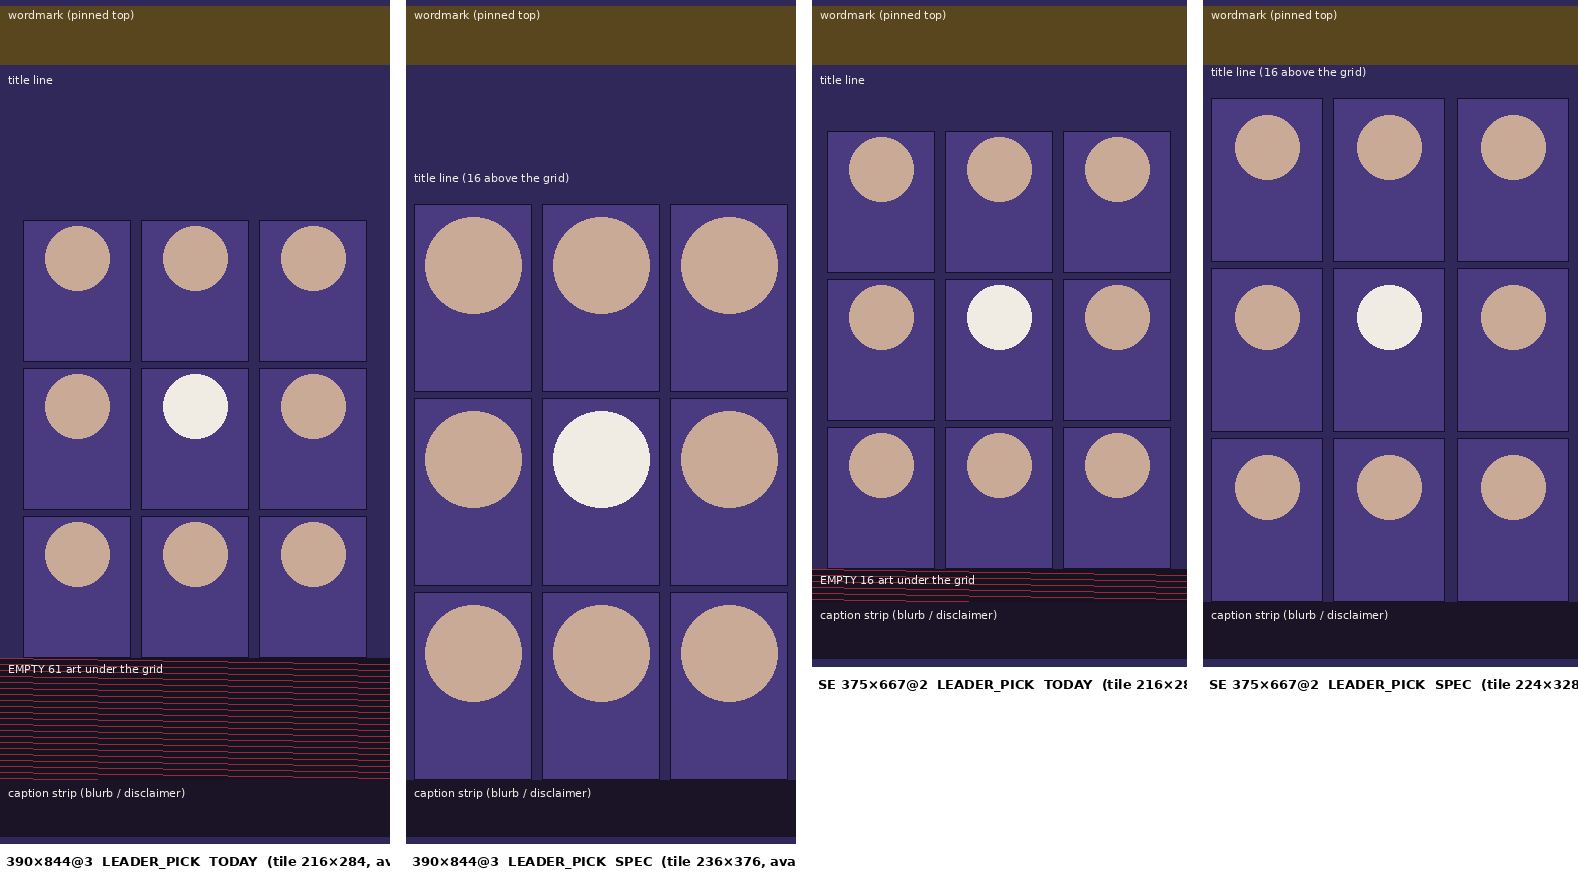
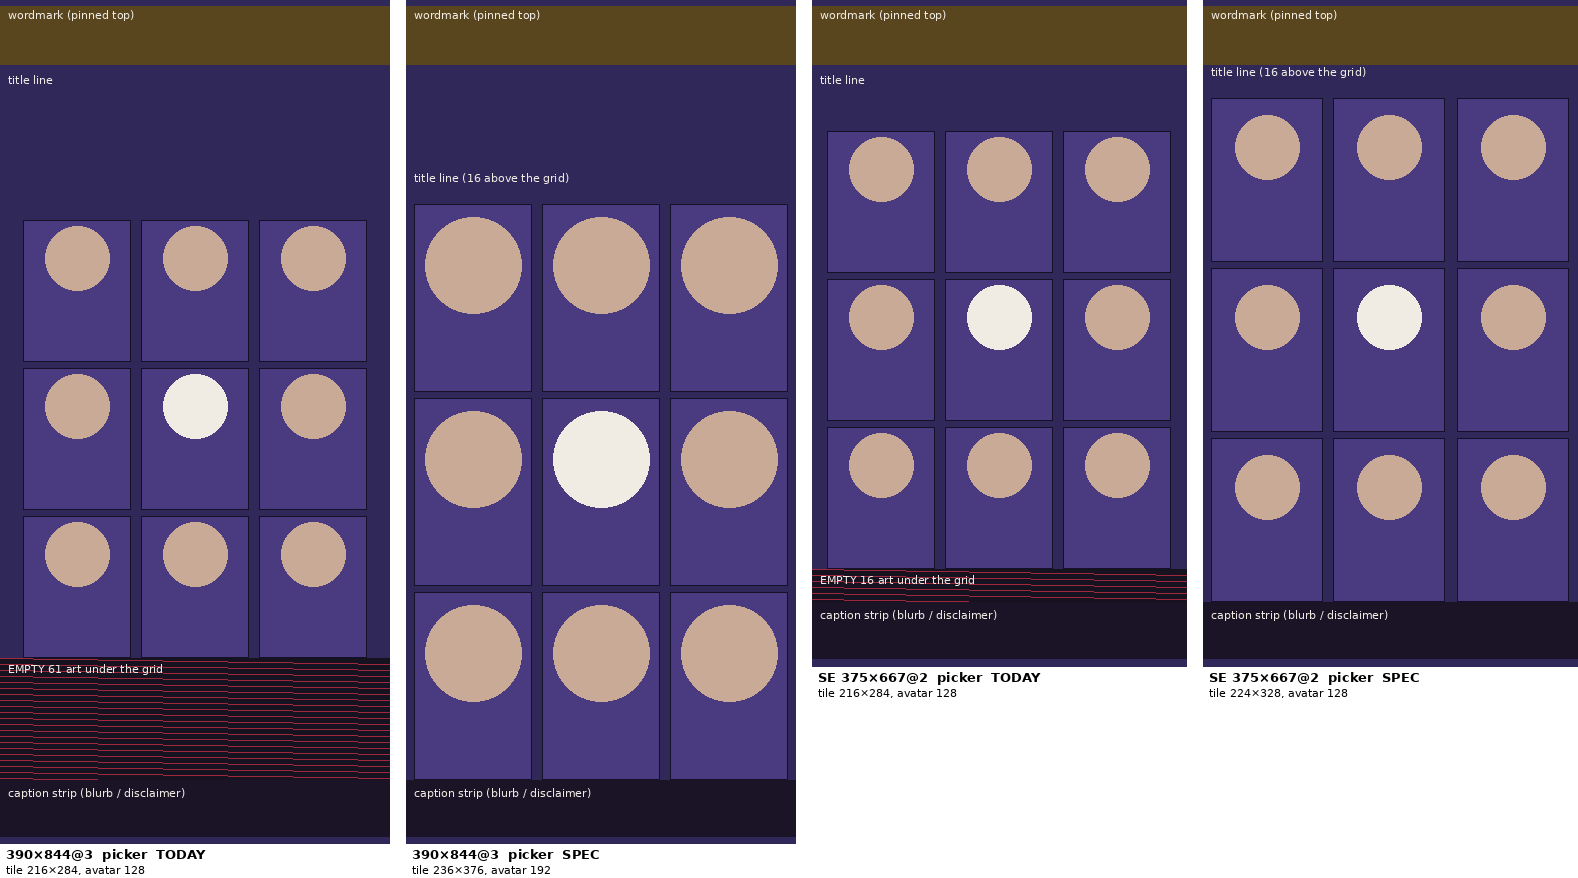
docs(od-sevev): set the art grid before the unchanged-scale return
Two phones with the same k differ only in columns and rows, so the
display update must record them before it returns early.

Claude-Session: https://claude.ai/code/session_01JZ6f2h5tcXVKGAwuAga5z8

Changed region(s): [[0.0, 0.9533, 0.4968, 1.0], [0.4968, 0.7688, 1.0, 0.7995]]

diff --git a/ux/tools/mobile_mockup.py b/ux/tools/mobile_mockup.py
@@ -155,9 +155,10 @@ def picker_panel(dev, mode):
         d.text((8, gb * sc + 4), "EMPTY %d art under the grid" % ((strip_y - gb) // 4), fill=C["text"], font=FONT)
     d.rectangle([0, strip_y * sc, wcss, (vh - 16) * sc], fill=C["ticker"])
     d.text((8, strip_y * sc + 6), "caption strip (blurb / disclaimer)", fill=C["text"], font=FONT)
-    title = "%s  LEADER_PICK  %s  (tile %d×%d, avatar %d)" % (dev[0], "TODAY" if mode == "today" else "SPEC", tw, th, A)
+    title = "%s  picker  %s" % (dev[0], "TODAY" if mode == "today" else "SPEC")
     d.rectangle([0, hcss, wcss, hcss + 34], fill=(255, 255, 255))
-    d.text((6, hcss + 9), title, fill=(0, 0, 0), font=FONT_B)
+    d.text((6, hcss + 2), title, fill=(0, 0, 0), font=FONT_B)
+    d.text((6, hcss + 19), "tile %d×%d, avatar %d" % (tw, th, A), fill=(0, 0, 0), font=FONT)
     return img
 
 

diff --git a/ux/mobile-first-layout.md b/ux/mobile-first-layout.md
@@ -65,9 +65,11 @@ Shots: `scratchpad/shots/mobile-ux/` (`390x844@3-{pick,pretap,card1,bought,c1-ta
 static var cols := 180          # art columns: floor(W_dev / k)
 static var rows := 267          # art rows:    floor(H_dev / k)
 
-## in update(), after k is set (integer path only; the fallback keeps 180 × 320):
-cols = int(floorf(win.x / k)) if ni else ART_W
-rows = int(floorf(win.y / k)) if ni else 320
+## in update(), right after nk / ni are computed and BEFORE the "unchanged" early return: two
+## phones with the same k (390@3 and 430@3 are both k 6) differ only here. The fallback keeps
+## 180 × 320.
+cols = int(floorf(win.x / nk)) if ni else ART_W
+rows = int(floorf(win.y / nk)) if ni else 320
 
 ## The layout width in logical px: whole art columns, on the 4-px grid (720 at 180 cols).
 static func cw() -> float:
